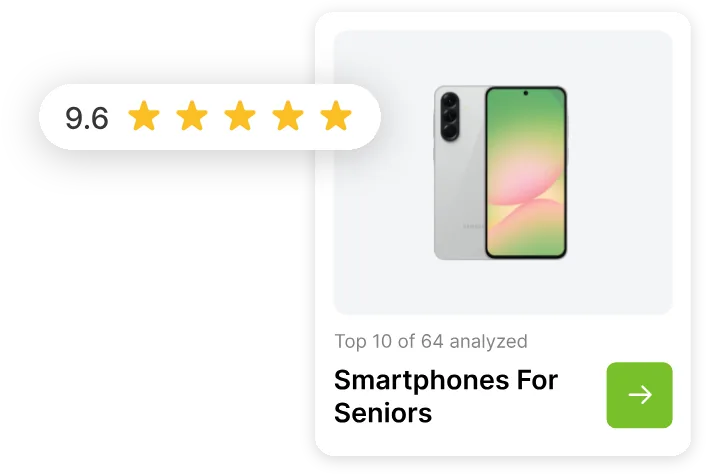
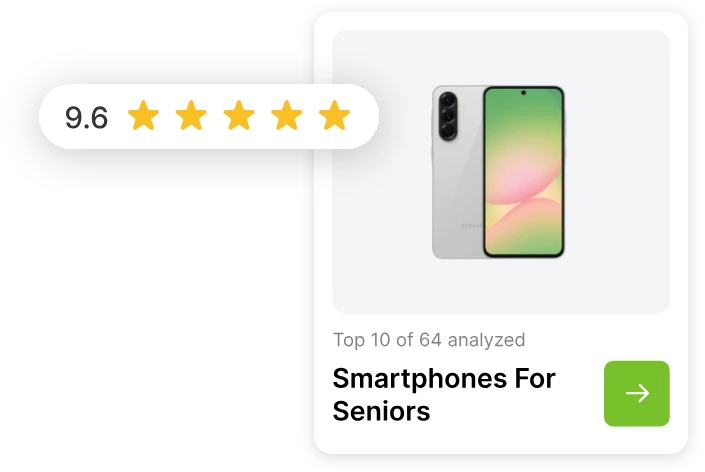
loading time decrease

diff --git a/unit-ep.html b/unit-ep.html
@@ -1101,7 +1101,7 @@
       </div>
 
       <!-- ── OVERVIEW IMAGE PLACEHOLDER ────────────── -->
-      <!-- SWAP: replace inner div with  <img src="overview.svg" alt="Overview image">  -->
+      <!-- SWAP: replace inner div with  <img loading="lazy" decoding="async" src="overview.svg" alt="Overview image">  -->
       <div class="overview-image tablet-frame">
         <video src="images and videos/unit-ep-overview.mp4" autoplay muted loop playsinline></video>
       </div>
@@ -1176,9 +1176,9 @@
     </p>
 
     <!-- ── USER FLOW DIAGRAM PLACEHOLDER ────────────── -->
-    <!-- SWAP: replace inner div with  <img src="user-flow.svg" alt="User flow / information architecture">  -->
+    <!-- SWAP: replace inner div with  <img loading="lazy" decoding="async" src="user-flow.svg" alt="User flow / information architecture">  -->
     <div class="media-slot">
-      <img src="images and videos/user journy (1).avif" alt="User flow / information architecture diagram">
+      <img loading="lazy" decoding="async" src="images and videos/user journy (1).avif" alt="User flow / information architecture diagram">
     </div>
 
     <div class="subsection">
@@ -1193,9 +1193,9 @@
           <div class="bullet-text"><strong>Before the redesign:</strong> Handwritten logs, manual paper drawings, and un-synced spreadsheets.</div>
         </div>
         <div style="display:flex; gap:16px; margin:16px 0; align-items:stretch">
-          <img class="zoomable" src="images and videos/image 41.png" alt="Before the redesign: handwritten logs" style="flex:1 1 0; min-width:0; aspect-ratio:1/1; object-fit:contain; border-radius:16px; background:transparent; cursor:zoom-in">
-          <img class="zoomable" src="images and videos/image 43.png" alt="Before the redesign: manual paper drawings" style="flex:1 1 0; min-width:0; aspect-ratio:1/1; object-fit:contain; border-radius:16px; background:transparent; cursor:zoom-in">
-          <img class="zoomable" src="images and videos/image 44.png" alt="Before the redesign: un-synced spreadsheets" style="flex:1 1 0; min-width:0; aspect-ratio:1/1; object-fit:contain; border-radius:16px; background:transparent; cursor:zoom-in">
+          <img loading="lazy" decoding="async" class="zoomable" src="images and videos/image 41.webp" alt="Before the redesign: handwritten logs" style="flex:1 1 0; min-width:0; aspect-ratio:1/1; object-fit:contain; border-radius:16px; background:transparent; cursor:zoom-in">
+          <img loading="lazy" decoding="async" class="zoomable" src="images and videos/image 43.webp" alt="Before the redesign: manual paper drawings" style="flex:1 1 0; min-width:0; aspect-ratio:1/1; object-fit:contain; border-radius:16px; background:transparent; cursor:zoom-in">
+          <img loading="lazy" decoding="async" class="zoomable" src="images and videos/image 44.webp" alt="Before the redesign: un-synced spreadsheets" style="flex:1 1 0; min-width:0; aspect-ratio:1/1; object-fit:contain; border-radius:16px; background:transparent; cursor:zoom-in">
         </div>
         <div class="bullet-item">
           <div class="bullet-marker"></div>
@@ -1215,7 +1215,7 @@
             These wireframes show the evaluation page: how the candidate list is arranged, and what is determined by the configuration of other features and components.
           </p>
         </div>
-        <img class="zoomable" src="images and videos/evaluation page sketches.svg" alt="Evaluation page sketches" style="flex:1.4 1 360px; min-width:0; max-width:100%; border-radius:16px; background:transparent; cursor:zoom-in">
+        <img loading="lazy" decoding="async" class="zoomable" src="images and videos/evaluation page sketches.webp" srcset="images%20and%20videos/evaluation%20page%20sketches.webp 2498w" sizes="1440px" alt="Evaluation page sketches" style="flex:1.4 1 360px; min-width:0; max-width:100%; border-radius:16px; background:transparent; cursor:zoom-in">
       </div>
     </div>
   </section>
@@ -1237,9 +1237,9 @@
     <!-- ── 7a · Migrating the assessment tasks list ── -->
     <div class="subsection">
       <!-- ── TASKS LIST WIREFRAME PLACEHOLDER ── -->
-      <!-- SWAP: replace inner div with  <img src="tasks-list.svg" alt="Group tracking list">  -->
+      <!-- SWAP: replace inner div with  <img loading="lazy" decoding="async" src="tasks-list.svg" alt="Group tracking list">  -->
       <div class="media-slot dark">
-        <img class="zoomable" src="images and videos/1st itaration HIFI.svg" alt="Group tracking list" style="width:80%; height:auto; max-height:100%; margin:0 auto">
+        <img loading="lazy" decoding="async" class="zoomable" src="images and videos/1st itaration HIFI.webp" srcset="images%20and%20videos/1st%20itaration%20HIFI.webp 3535w" sizes="1230px" alt="Group tracking list" style="width:80%; height:auto; max-height:100%; margin:0 auto">
       </div>
 
       <h3 class="subsection-title" style="margin-top:40px">First Iteration: Pros &amp; Cons</h3>
@@ -1270,17 +1270,17 @@
 
       <h3 class="subsection-title" style="margin-top:40px">I went through a few more iterations until I arrived at this one</h3>
       <div class="media-slot dark">
-        <img class="zoomable" src="images and videos/2nd itaration unitep.svg" alt="Second iteration" style="width:80%; height:auto; max-height:100%; margin:0 auto">
+        <img loading="lazy" decoding="async" class="zoomable" src="images and videos/2nd itaration unitep.webp" srcset="images%20and%20videos/2nd%20itaration%20unitep.webp 3535w" sizes="1440px" alt="Second iteration" style="width:80%; height:auto; max-height:100%; margin:0 auto">
       </div>
       <h3 class="subsection-title" style="margin-top:40px;margin-bottom:0">Running station flow animation</h3>
       <div class="media-slot dark rating-slot" style="margin-top:16px">
         <div class="rating-tablet">
         <div class="rating-anim">
-          <img src="images and videos/rating-menu/frame-0.svg" alt="Rating menu interaction">
-          <img class="f1" src="images and videos/rating-menu/frame-1.svg" alt="">
-          <img class="f2" src="images and videos/rating-menu/frame-2.svg" alt="">
-          <img class="f3" src="images and videos/rating-menu/frame-3.svg" alt="">
-          <img class="f4" src="images and videos/rating-menu/frame-4.svg" alt="">
+          <img src="images and videos/rating-menu/frame-0.webp" srcset="images%20and%20videos/rating-menu/frame-0.webp 2473w" sizes="1194px" alt="Rating menu interaction">
+          <img class="f1" src="images and videos/rating-menu/frame-1.webp" srcset="images%20and%20videos/rating-menu/frame-1.webp 2473w" sizes="1194px" alt="">
+          <img class="f2" src="images and videos/rating-menu/frame-2.webp" srcset="images%20and%20videos/rating-menu/frame-2.webp 2473w" sizes="1194px" alt="">
+          <img class="f3" src="images and videos/rating-menu/frame-3.webp" srcset="images%20and%20videos/rating-menu/frame-3.webp 2473w" sizes="1194px" alt="">
+          <img class="f4" src="images and videos/rating-menu/frame-4.webp" srcset="images%20and%20videos/rating-menu/frame-4.webp 2473w" sizes="1194px" alt="">
         </div>
         </div>
       </div>
@@ -1295,7 +1295,7 @@
     </div>
 
     <div class="media-slot dark">
-      <img class="zoomable" src="images and videos/dashboard view.svg" alt="Dashboard view">
+      <img loading="lazy" decoding="async" class="zoomable" src="images and videos/dashboard view.webp" srcset="images%20and%20videos/dashboard%20view.webp 4000w" sizes="1440px" alt="Dashboard view">
     </div>
 
     <!-- ── 7b · Connecting Assessment and Evaluation creation flow ── -->
@@ -1443,7 +1443,7 @@
   (function () {
     var lb = document.createElement('div');
     lb.className = 'lightbox';
-    lb.innerHTML = '<img alt="">';
+    lb.innerHTML = '<img loading="lazy" decoding="async" alt="">';
     document.body.appendChild(lb);
     var big = lb.querySelector('img');
     document.querySelectorAll('img.zoomable').forEach(function (img) {

diff --git a/copycat-v2.html b/copycat-v2.html
@@ -1107,7 +1107,7 @@
       </div>
 
       <div class="media-slot" style="flex:none;width:60%;background:none;box-shadow:none;aspect-ratio:auto;overflow:visible">
-        <img src="images and videos/Copycat overview image2.svg" alt="CopyCat overview" style="width:100%;height:auto">
+        <img loading="lazy" decoding="async" src="images and videos/Copycat overview image2.webp" srcset="images%20and%20videos/Copycat%20overview%20image2.webp 2653w" sizes="1330px" alt="CopyCat overview" style="width:100%;height:auto">
       </div>
     </div>
   </section>
@@ -1159,7 +1159,7 @@
       </div>
 
       <div class="media-slot" style="flex:none;width:38%;background:none;box-shadow:none;aspect-ratio:auto;overflow:visible">
-        <img src="images and videos/creatives pins.svg" alt="Creatives pins" style="width:100%;height:auto;object-fit:contain">
+        <img loading="lazy" decoding="async" src="images and videos/creatives pins.webp" srcset="images%20and%20videos/creatives%20pins.webp 2400w" sizes="2088px" alt="Creatives pins" style="width:100%;height:auto;object-fit:contain">
       </div>
     </div>
   </section>
@@ -1240,7 +1240,7 @@
         </p>
 
         <div class="office-mobile" style="margin-top:24px">
-          <img src="images and videos/at the office.svg" alt="At the office" style="width:100%;height:auto;object-fit:contain">
+          <img loading="lazy" decoding="async" src="images and videos/at the office.webp" srcset="images%20and%20videos/at%20the%20office.webp 2400w" sizes="1222px" alt="At the office" style="width:100%;height:auto;object-fit:contain">
         </div>
 
         <h4 class="subsection-h4" style="margin-top:32px">It allowed me to:</h4>
@@ -1277,12 +1277,12 @@
       </div>
 
       <div class="media-slot office-desktop" style="flex:none;width:38%;background:none;box-shadow:none;aspect-ratio:auto;overflow:visible;margin-top:4px">
-        <img src="images and videos/at the office.svg" alt="At the office" style="width:100%;height:auto;object-fit:contain">
+        <img loading="lazy" decoding="async" src="images and videos/at the office.webp" srcset="images%20and%20videos/at%20the%20office.webp 2400w" sizes="1222px" alt="At the office" style="width:100%;height:auto;object-fit:contain">
       </div>
     </div>
 
     <div class="media-slot" style="box-shadow:none;margin-top:32px;background:#F5F3F0;justify-content:flex-start">
-      <picture><source media="(max-width: 768px)" srcset="images%20and%20videos/copycat%20stickynotes-mobile.jpg"><img src="images and videos/copycat stickynotes.jpg" alt="Research notes from embedding with the team" style="max-width:85%;width:auto;margin:0"></picture>
+      <picture><source media="(max-width: 768px)" srcset="images%20and%20videos/copycat%20stickynotes-mobile.jpg"><img loading="lazy" decoding="async" src="images and videos/copycat stickynotes.webp" alt="Research notes from embedding with the team" style="max-width:85%;width:auto;margin:0"></picture>
     </div>
     <p class="media-caption">A sneak peek at field notes captured while collaborating with the team.</p>
   </section>
@@ -1346,7 +1346,7 @@
       <span id="journeyZoomLabel" style="min-width:52px;text-align:center;color:#fff;font-size:13px;font-weight:600">100%</span>
       <button type="button" class="zoom-btn" id="journeyZoomIn" aria-label="Zoom in">+</button>
     </div>
-    <img id="journeyImg" src="images and videos/User journey.svg" alt="Full user journey mapping">
+    <img loading="lazy" decoding="async" id="journeyImg" src="images and videos/User journey.webp" srcset="images%20and%20videos/User%20journey.webp 3000w" sizes="3088px" alt="Full user journey mapping">
   </div>
   <script>
     (function () {
@@ -1532,7 +1532,7 @@
           <div><b>Downside:</b> polishing a cluttered layout keeps the clutter, and with no enforced order, steps stay easy to skip.</div>
         </div>
         <div class="opt-visual">
-          <div class="opt-frame legacy"><img src="images and videos/Copycat before.svg" alt="Legacy CopyCat screen with templates, filters and export settings all shown at once" loading="lazy"></div>
+          <div class="opt-frame legacy"><img src="images and videos/Copycat before.webp" srcset="images%20and%20videos/Copycat%20before.webp 4000w" sizes="1506px" alt="Legacy CopyCat screen with templates, filters and export settings all shown at once" loading="lazy"></div>
           <div class="opt-cap"><span>The legacy CopyCat screen</span></div>
         </div>
       </div>
@@ -1694,7 +1694,7 @@
     </p>
 
     <div class="media-slot" style="margin-top:32px;background:none;box-shadow:0 20px 50px -28px rgba(12,11,10,0.35)">
-      <img src="images and videos/task row undone.svg" alt="CopyCat task list — single source of truth">
+      <img loading="lazy" decoding="async" src="images and videos/task row undone.webp" srcset="images%20and%20videos/task%20row%20undone.webp 4000w" sizes="1216px" alt="CopyCat task list — single source of truth">
     </div>
 
     <!-- ── STEP-BASED FLOW VISUAL ── -->
@@ -1739,7 +1739,7 @@
     <h4 class="subsection-h4" style="margin-top:44px">Dashboard tab</h4>
     <p class="section-body" style="margin-top:8px">A board-level view of completed and open tasks by owner, section and category, so the team can see throughput and bottlenecks without exporting to a spreadsheet.</p>
     <div class="media-slot" style="margin-top:24px;background:none;box-shadow:0 20px 50px -28px rgba(12,11,10,0.35)">
-      <img src="images and videos/CopyCat — Dashboard Tab.svg" alt="CopyCat dashboard tab showing completed and incomplete tasks by owner, section and category">
+      <img loading="lazy" decoding="async" src="images and videos/CopyCat — Dashboard Tab.webp" srcset="images%20and%20videos/CopyCat%20—%20Dashboard%20Tab.webp 4000w" sizes="1314px" alt="CopyCat dashboard tab showing completed and incomplete tasks by owner, section and category">
     </div>
 
     <h4 class="subsection-h4" style="margin-top:44px;font-size:18px">Key Design Decisions</h4>
@@ -1818,7 +1818,7 @@
 
     <div class="ai-split">
       <div class="ai-shot">
-        <img src="images and videos/Copycat - articles modal.svg" alt="CopyCat article generator: AI-generated fields with regenerate controls, banner prompt, three sharing-description options and a Save Article button">
+        <img loading="lazy" decoding="async" src="images and videos/Copycat - articles modal.webp" srcset="images%20and%20videos/Copycat%20-%20articles%20modal.webp 2300w" sizes="920px" alt="CopyCat article generator: AI-generated fields with regenerate controls, banner prompt, three sharing-description options and a Save Article button">
       </div>
       <div class="ai-notes">
         <div class="ai-note"><span class="ai-num">1</span><div><h4>Label where content came from</h4><p>Every field is tagged &ldquo;auto-filled from task&rdquo; or &ldquo;AI generated&rdquo;, so reviewers know exactly what needs checking.</p></div></div>

diff --git a/seller-platform.html b/seller-platform.html
@@ -1074,9 +1074,9 @@
       </div>
 
       <!-- ── OVERVIEW IMAGE PLACEHOLDER ────────────── -->
-      <!-- SWAP: replace inner div with  <img src="overview.svg" alt="Overview image">  -->
+      <!-- SWAP: replace inner div with  <img loading="lazy" decoding="async" src="overview.svg" alt="Overview image">  -->
       <div class="overview-image">
-        <img src="images and videos/Overview 2.svg" alt="Overview — catalog management">
+        <img loading="lazy" decoding="async" src="images and videos/Overview 2.webp" srcset="images%20and%20videos/Overview%202.webp 2568w" sizes="2893px" alt="Overview — catalog management">
       </div>
     </div>
   </section>
@@ -1154,7 +1154,7 @@
     </p>
 
     <div class="media-slot" style="box-shadow:none;margin-top:32px;background:#F5F3F0;justify-content:flex-start">
-      <img src="images and videos/stickynotes.jpg" alt="Stakeholder questions — sticky notes" style="max-width:85%;width:auto;margin:0">
+      <img loading="lazy" decoding="async" src="images and videos/stickynotes.webp" alt="Stakeholder questions — sticky notes" style="max-width:85%;width:auto;margin:0">
     </div>
 
   </section>
@@ -1175,7 +1175,7 @@
     </p>
 
     <div class="media-slot" style="margin:32px 0 0;border-radius:33px;max-width:820px">
-      <img src="images and videos/Campaign ID.svg" alt="Campaign ID">
+      <img loading="lazy" decoding="async" src="images and videos/Campaign ID.svg" alt="Campaign ID">
     </div>
 
     <h4 class="subsection-h4" style="margin-top:36px">That was a great discovery because now I had a few ideas for how to approach it from the UX side.</h4>
@@ -1232,7 +1232,7 @@
     <div class="options-grid">
       <div class="option-card">
         <div class="option-image">
-          <img src="images and videos/Forced Onboarding.svg" alt="Forced Onboarding">
+          <img loading="lazy" decoding="async" src="images and videos/Forced Onboarding.svg" alt="Forced Onboarding">
         </div>
         <div class="option-head">
           <div class="option-num">Option 1</div>
@@ -1243,7 +1243,7 @@
       </div>
       <div class="option-card">
         <div class="option-image">
-          <img src="images and videos/Persistent Banners.svg" alt="Persistent Banners">
+          <img loading="lazy" decoding="async" src="images and videos/Persistent Banners.svg" alt="Persistent Banners">
         </div>
         <div class="option-head">
           <div class="option-num">Option 2</div>
@@ -1254,7 +1254,7 @@
       </div>
       <div class="option-card chosen">
         <div class="option-image">
-          <img src="images and videos/Contextual Discovery.svg" alt="Contextual Discovery">
+          <img loading="lazy" decoding="async" src="images and videos/Contextual Discovery.svg" alt="Contextual Discovery">
         </div>
         <div class="option-head">
           <div class="option-num">Option 3</div>
@@ -1274,7 +1274,7 @@
       </div>
 
       <div class="media-slot" style="margin-top:28px;max-width:40%">
-        <img src="images and videos/Image 2 - Contextual sidebar tooltip.svg" alt="Contextual sidebar tooltip">
+        <img loading="lazy" decoding="async" src="images and videos/Image 2 - Contextual sidebar tooltip.webp" srcset="images%20and%20videos/Image%202%20-%20Contextual%20sidebar%20tooltip.webp 1768w" sizes="502px" alt="Contextual sidebar tooltip">
       </div>
     </div>
   </section>
@@ -1302,7 +1302,7 @@
         </div>
       </div>
     </div>
-    <img src="images and videos/bulk.svg" alt="Bulk campaign input" style="display:block;margin:24px 0 0 24px;max-width:60%;height:auto">
+    <img loading="lazy" decoding="async" src="images and videos/bulk.svg" alt="Bulk campaign input" style="display:block;margin:24px 0 0 24px;max-width:60%;height:auto">
 
     <div class="bullet-list" style="margin-top:32px">
       <div class="bullet-item">
@@ -1313,7 +1313,7 @@
         </div>
       </div>
     </div>
-    <img src="images and videos/tooltip for input field.svg" alt="Tooltip for input field" style="display:block;margin:24px 0 0 24px;max-width:60%;height:auto">
+    <img loading="lazy" decoding="async" src="images and videos/tooltip for input field.webp" srcset="images%20and%20videos/tooltip%20for%20input%20field.webp 1713w" sizes="685px" alt="Tooltip for input field" style="display:block;margin:24px 0 0 24px;max-width:60%;height:auto">
   </section>
 
 
@@ -1362,7 +1362,7 @@
 
     <!-- ── SURVEY ANSWERS ── -->
     <div class="media-slot wide" style="background:none;box-shadow:none;">
-      <img src="images and videos/survey answers.svg" alt="Survey answers">
+      <img loading="lazy" decoding="async" src="images and videos/survey answers.webp" srcset="images%20and%20videos/survey%20answers.webp 4000w" sizes="3587px" alt="Survey answers">
     </div>
     <p class="media-caption">A sneak peek at questions from the survey</p>
   </section>

diff --git a/cs2-funnel.html b/cs2-funnel.html
@@ -1386,7 +1386,7 @@
       <p class="problem-body">At Roundforest, we run high-volume Google traffic campaigns sending millions of global shoppers to data-driven "Top 10" product review lists. The platform earns a commission from Amazon on every purchase triggered by a user clickout - meaning even tiny friction points in the journey translate into massive revenue impact.</p>
     </div>
     <div class="overview-image">
-      <img src="images and videos/list page1.svg" alt="Top 10 list page" style="width:100%;height:100%;object-fit:contain">
+      <img src="images and videos/list page1.webp" srcset="images%20and%20videos/list%20page1.webp 2140w" sizes="418px" alt="Top 10 list page" style="width:100%;height:100%;object-fit:contain">
     </div>
   </div>
 
@@ -1397,7 +1397,7 @@
   <section class="problem">
     <div style="display:grid;grid-template-columns:1fr 1fr;gap:56px;align-items:center">
       <div class="overview-image">
-        <img src="images and videos/overview section google.svg" alt="Overview section Google ranking vs engagement" style="width:100%;height:100%;object-fit:contain">
+        <img loading="lazy" decoding="async" src="images and videos/overview section google.webp" srcset="images%20and%20videos/overview%20section%20google.webp 2140w" sizes="1238px" alt="Overview section Google ranking vs engagement" style="width:100%;height:100%;object-fit:contain">
       </div>
       <div class="overview-text">
         <div class="section-num-label" style="margin-bottom:26px;color:#3E81EA">Problem</div>
@@ -1470,8 +1470,8 @@
             </ul>
           </div>
         </div>
-        <div class="overview-image" style="aspect-ratio:4/3;border-radius:24px;overflow:visible;display:flex;align-items:center;justify-content:center;cursor:zoom-in;margin:auto 0;align-self:center" onclick="openLightbox('images and videos/filter 1.svg')">
-          <img src="images and videos/filter 1.svg" alt="Filter 1" style="width:100%;height:100%;object-fit:contain;display:block;transform:scale(1.12)">
+        <div class="overview-image" style="aspect-ratio:4/3;border-radius:24px;overflow:visible;display:flex;align-items:center;justify-content:center;cursor:zoom-in;margin:auto 0;align-self:center" onclick="openLightbox('images and videos/filter 1.webp')">
+          <img loading="lazy" decoding="async" src="images and videos/filter 1.webp" srcset="images%20and%20videos/filter%201.webp 2686w" sizes="458px" alt="Filter 1" style="width:100%;height:100%;object-fit:contain;display:block;transform:scale(1.12)">
         </div>
       </div>
       <!-- Pre-Iteration 2 · Decision Making -->
@@ -1510,8 +1510,8 @@
           <div class="section-title-large" style="font-size:clamp(28px,3.5vw,44px)">Tweaking for Better Engagement</div>
           <p class="section-sub" style="margin-bottom:0;font-size:16px;line-height:1.7">We noticed a really positive trend in clickout and EPU (earnings per user), but the overall engagement with the feature itself wasn't quite where we wanted it. To fix that, we ran another iteration focusing on the UI and messaging - making it more visually appealing and enticing for users to actually click on and try out.</p>
         </div>
-        <div class="overview-image" style="aspect-ratio:4/3;border-radius:24px;overflow:visible;display:flex;align-items:center;justify-content:center;cursor:zoom-in" onclick="openLightbox('images and videos/filter2.svg')">
-          <img src="images and videos/filter2.svg" alt="Filter 2" style="width:100%;height:100%;object-fit:contain;display:block;transform:scale(1.12)">
+        <div class="overview-image" style="aspect-ratio:4/3;border-radius:24px;overflow:visible;display:flex;align-items:center;justify-content:center;cursor:zoom-in" onclick="openLightbox('images and videos/filter2.webp')">
+          <img loading="lazy" decoding="async" src="images and videos/filter2.webp" srcset="images%20and%20videos/filter2.webp 2686w" sizes="1208px" alt="Filter 2" style="width:100%;height:100%;object-fit:contain;display:block;transform:scale(1.12)">
         </div>
       </div>
     </div>
@@ -1622,7 +1622,7 @@
 </script>
 
   <div id="lightbox" onclick="closeLightbox()" style="display:none;position:fixed;inset:0;z-index:9999;background:rgba(10,12,20,0.9);align-items:center;justify-content:center;padding:40px;cursor:zoom-out">
-    <img id="lightbox-img" src="" alt="" style="max-width:95%;max-height:90%;object-fit:contain;border-radius:8px">
+    <img loading="lazy" decoding="async" id="lightbox-img" src="" alt="" style="max-width:95%;max-height:90%;object-fit:contain;border-radius:8px">
     <span style="position:absolute;top:24px;right:32px;font-size:32px;line-height:1;color:#F5F3EF;cursor:pointer">×</span>
   </div>
   <script>

diff --git a/index.html b/index.html
@@ -1211,7 +1211,7 @@
       <!-- Flowers -->
       <div class="float f-bouquet">
         <span class="plus">+</span>
-        <div class="fimg-wrap"><img src="images and videos/flowe bouquet.webp" decoding="async" alt="Flower bouquet"></div>
+        <div class="fimg-wrap"><img src="images and videos/flowe bouquet.webp" srcset="images%20and%20videos/flowe%20bouquet.webp 600w" sizes="134px" decoding="async" alt="Flower bouquet"></div>
         <span class="chip">Did you know? I started my design journey with flowers.</span>
       </div>
 
@@ -1225,14 +1225,14 @@
       <!-- Phone card -->
       <div class="float f-phone">
         <span class="plus">+</span>
-        <div class="fimg-wrap"><img src="phone card.webp" decoding="async" alt="Smartphone rating card"></div>
+        <div class="fimg-wrap"><img src="phone card.webp" srcset="phone%20card.webp 705w" sizes="236px" decoding="async" alt="Smartphone rating card"></div>
         <span class="chip">E-commerce is my playground - designing for conversion.</span>
       </div>
 
       <!-- Backpack (opens video) -->
       <div class="float f-backpack" id="backpackTrigger" role="button" tabindex="0" aria-label="Play industrial design project video">
         <span class="plus">+</span>
-        <div class="fimg-wrap"><img src="images and videos/backpack.webp" decoding="async" alt="Backpack design"></div>
+        <div class="fimg-wrap"><img src="images and videos/backpack.webp" srcset="images%20and%20videos/backpack.webp 600w" sizes="154px" decoding="async" alt="Backpack design"></div>
         <span class="chip">Bag design is my thing - tap to check out my final industrial design project ✨</span>
         <span class="backpack-tap">Tap to play ▸</span>
       </div>
@@ -1278,7 +1278,7 @@
       </div>
       <div class="card-media">
         <div class="card-glow"></div>
-        <img class="card-img" src="images and videos/copycat-homepage.webp" loading="lazy" decoding="async" alt="Copycat Internal Platform">
+        <img class="card-img" src="images and videos/copycat-homepage.webp" srcset="images%20and%20videos/copycat-homepage.webp 1735w" sizes="578px" loading="lazy" decoding="async" alt="Copycat Internal Platform">
       </div>
     </a>
 
@@ -1293,7 +1293,7 @@
       </div>
       <div class="card-media">
         <div class="card-glow"></div>
-        <img class="card-img" src="images and videos/CS data driven homepage.webp" loading="lazy" decoding="async" alt="Data Driven UX Funnel" style="object-fit:contain;padding:0;transform:scale(1.55)">
+        <img class="card-img" src="images and videos/CS data driven homepage.webp" srcset="images%20and%20videos/CS%20data%20driven%20homepage.webp 2930w" sizes="478px" loading="lazy" decoding="async" alt="Data Driven UX Funnel" style="object-fit:contain;padding:0;transform:scale(1.55)">
       </div>
     </a>
 
@@ -1308,7 +1308,7 @@
       </div>
       <div class="card-media">
         <div class="card-glow"></div>
-        <img class="card-img" src="images and videos/Seller platform-homepage.webp" loading="lazy" decoding="async" alt="Seller Platform">
+        <img class="card-img" src="images and videos/Seller platform-homepage.webp" srcset="images%20and%20videos/Seller%20platform-homepage.webp 1670w" sizes="556px" loading="lazy" decoding="async" alt="Seller Platform">
       </div>
     </a>
 
@@ -1323,7 +1323,7 @@
       </div>
       <div class="card-media">
         <div class="card-glow"></div>
-        <img class="card-img" src="images and videos/Unit.e.p-homepage.webp" loading="lazy" decoding="async" alt="Unit.e.p App">
+        <img class="card-img" src="images and videos/Unit.e.p-homepage.webp" srcset="images%20and%20videos/Unit.e.p-homepage.webp 1420w" sizes="473px" loading="lazy" decoding="async" alt="Unit.e.p App">
       </div>
     </a>
 
@@ -1337,7 +1337,7 @@
       </div>
       <div class="card-media">
         <div class="card-glow"></div>
-        <img class="card-img card-img--lg" src="images and videos/Questionnaire-homepage.webp" loading="lazy" decoding="async" alt="The Questionnaire Engagement Strategy">
+        <img class="card-img card-img--lg" src="images and videos/Questionnaire-homepage.webp" srcset="images%20and%20videos/Questionnaire-homepage.webp 1500w" sizes="470px" loading="lazy" decoding="async" alt="The Questionnaire Engagement Strategy">
         <span class="card-chip">Coming Soon</span>
         <div class="card-disabled"></div>
       </div>
